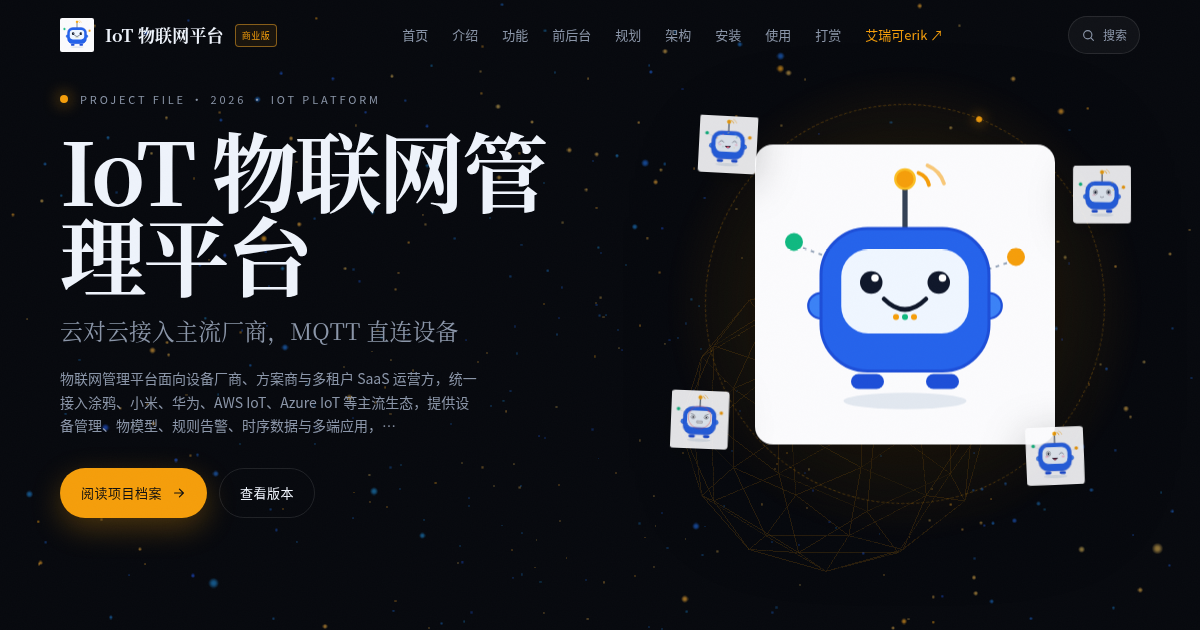
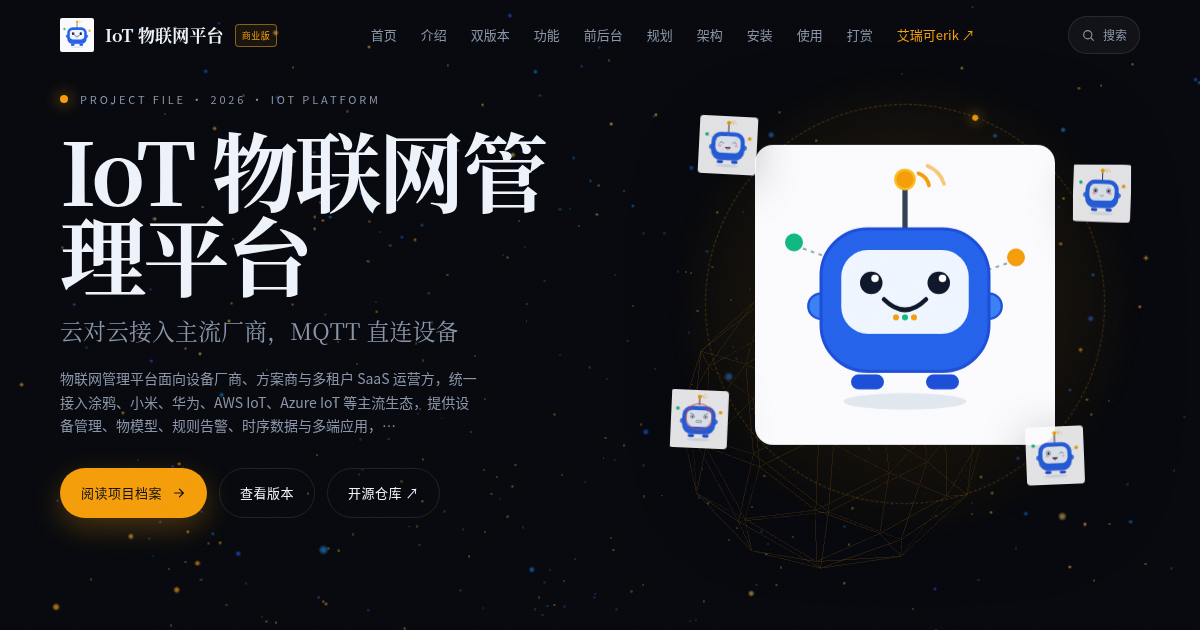
docs(site): 整合开源版/商业版并加入开源仓库

diff --git a/site/index.html b/site/index.html
@@ -27,18 +27,18 @@
 <meta name="twitter:title" content="IoT 物联网管理平台">
 <meta name="twitter:description" content="物联网管理平台面向设备厂商、方案商与多租户 SaaS 运营方，统一接入涂鸦、小米、华为、AWS IoT、Azure IoT 等主流生态，提供设备管理、物模型、规则告警、时序数据与多端应用，让不同厂商的设备在同一个平台纳管与运营。">
 <meta name="twitter:image" content="https://package.erik.xyz/iot-platform/assets/og.png">
-<script type="application/ld+json">{"@context": "https://schema.org", "@type": "SoftwareApplication", "name": "IoT 物联网管理平台", "description": "物联网管理平台面向设备厂商、方案商与多租户 SaaS 运营方，统一接入涂鸦、小米、华为、AWS IoT、Azure IoT 等主流生态，提供设备管理、物模型、规则告警、时序数据与多端应用，让不同厂商的设备在同一个平台纳管与运营。", "url": "https://package.erik.xyz/iot-platform/", "applicationCategory": "BusinessApplication", "operatingSystem": "Web", "inLanguage": "zh-CN", "author": {"@type": "Person", "name": "erik", "url": "https://erik.xyz"}}</script>
+<script type="application/ld+json">{"@context": "https://schema.org", "@type": "SoftwareApplication", "name": "IoT 物联网管理平台", "description": "物联网管理平台面向设备厂商、方案商与多租户 SaaS 运营方，统一接入涂鸦、小米、华为、AWS IoT、Azure IoT 等主流生态，提供设备管理、物模型、规则告警、时序数据与多端应用，让不同厂商的设备在同一个平台纳管与运营。", "url": "https://package.erik.xyz/iot-platform/", "applicationCategory": "BusinessApplication", "operatingSystem": "Web", "inLanguage": "zh-CN", "author": {"@type": "Person", "name": "erik", "url": "https://erik.xyz"}, "sameAs": ["https://github.com/erikwang2013/iot-platform"]}</script>
 <link rel="icon" href="assets/pet/mascot.svg" type="image/svg+xml">
 <link rel="preload" as="image" href="assets/pet/mascot.svg">
 <link rel="preload" as="image" href="assets/pet/expressions/smile.svg">
-<link rel="stylesheet" href="assets/style.css?v=5b0c637b">
+<link rel="stylesheet" href="assets/style.css?v=6aec3fcf">
 </head>
 <body>
 <canvas id="bg" aria-hidden="true"></canvas>
 <header class="site-header" id="header">
   <a class="brand" href="#hero" aria-label="回到首页"><img src="assets/pet/mascot.svg" alt=""><b>IoT 物联网平台</b><span class="brand-tag">商业版</span></a>
   <nav class="top-nav" aria-label="页面导航">
-    <a href="#hero">首页</a><a href="#intro">介绍</a><a href="#features">功能</a><a href="#sides">前后台</a><a href="#roadmap">规划</a><a href="#architecture">架构</a><a href="#install">安装</a><a href="#usage">使用</a><a href="#donate">打赏</a>
+    <a href="#hero">首页</a><a href="#intro">介绍</a><a href="#editions">双版本</a><a href="#features">功能</a><a href="#sides">前后台</a><a href="#roadmap">规划</a><a href="#architecture">架构</a><a href="#install">安装</a><a href="#usage">使用</a><a href="#donate">打赏</a>
     <a class="ext" href="https://erik.xyz" target="_blank" rel="noopener">艾瑞可erik ↗</a>
   </nav>
   <button class="search-btn" id="searchOpen" type="button" aria-label="站内搜索">
@@ -59,6 +59,7 @@
             <svg viewBox="0 0 16 16" fill="none" aria-hidden="true"><path d="M3 8h9M8.5 3.5 13 8l-4.5 4.5" stroke="currentColor" stroke-width="1.4" stroke-linecap="round" stroke-linejoin="round"/></svg>
           </a>
           <a class="btn" href="#timeline">查看版本</a>
+          <a class="btn" href="https://github.com/erikwang2013/iot-platform" target="_blank" rel="noopener">开源仓库 ↗</a>
         </div>
       </div>
       <div class="hero-pet" aria-hidden="true">
@@ -86,9 +87,31 @@
     </div>
   </section>
 
+  <section class="section" id="editions">
+    <div class="section-inner">
+      <div class="section-label">02 / 开源版与商业版</div>
+      <div class="section-head" data-reveal>
+        <h2>同一套代码基线，两种交付</h2>
+        <p>两版同源，商业版面向生产交付：开源版保留设备接入、物模型、规则告警、TDengine、多租户与 RBAC 等核心能力；商业版增加 iot-cdn、S3/MinIO、3 家云厂商与 HarmonyOS 四端，授权请联系 erik@erik.xyz。</p>
+      </div>
+      <div class="editions-grid" data-reveal>
+        <div class="edition-panel edition-open">
+          <div class="edition-head"><span>OPEN SOURCE</span><h3>开源版</h3></div>
+          <ul class="edition-list"><li>MQTT/mTLS 设备接入与设备生命周期</li><li>物模型、规则告警与场景自动化</li><li>TDengine 时序存储与 CSV/Excel 导出</li><li>多租户、RBAC 与 security-rust 扫描</li><li>Flutter 管理端/客户端与 13 语言</li></ul>
+        </div>
+        <div class="edition-panel edition-commercial">
+          <div class="edition-head"><span>COMMERCIAL</span><h3>商业版</h3></div>
+          <ul class="edition-list"><li>华为/AWS/Azure 云厂商适配器</li><li>iot-cdn：刷新/预热、签名 URL 与报表</li><li>HarmonyOS 管理端与客户端四端</li><li>S3/MinIO 对象存储编排</li><li>完整 e-cat 框架与 18 个额外 crate</li><li>i18n 演示页与 CDN 管理页</li></ul>
+        </div>
+      </div>
+      <div class="edition-table-wrap" data-reveal><table class="edition-table"><thead><tr><th>维度</th><th>开源版</th><th>商业版</th></tr></thead><tbody><tr><td>业务服务</td><td>5 个：gateway / device / access / rule / data-service</td><td>6 个：增加 iot-cdn</td></tr><tr><td>设备厂商</td><td>涂鸦、小米</td><td>涂鸦、小米、华为、AWS IoT、Azure IoT</td></tr><tr><td>客户端</td><td>Flutter 管理端 + Flutter 客户端</td><td>Flutter + HarmonyOS 原生四端（15 个 ArkTS 文件）</td></tr><tr><td>数据与检索</td><td>18 张表；TDengine 时序、Redis、Kafka/MQTT、本地 OTA 文件</td><td>20 张表（+cdn_providers/cdn_tasks）；额外 S3/MinIO、CDN 缓存及多种可选数据后端</td></tr><tr><td>e-cat 框架</td><td>45 个 crate</td><td>63 个 crate（额外 18 个：9 类数据后端、NATS/RabbitMQ、etcd、GraphQL、WebSocket、CDN、Edge、Bench）</td></tr><tr><td>测试与质量</td><td>106 个测试文件 / 720 个 #[test]；ci.yml + release.yml</td><td>133 个测试文件 / 914 个 #[test]；沿用同一 CI/Release 流程</td></tr><tr><td>部署与运维</td><td>Docker Compose 20 个服务、install.sh、6 个 k8s 清单 + HPA、6 个 Prometheus job</td><td>23 个服务（含 iot-cdn/MinIO 等）、同套 k8s/HPA、7 个 Prometheus job</td></tr><tr><td>授权与商业支持</td><td>仅个人学习/研究；商业使用需书面授权；无 SLA</td><td>商业授权、交付与支持；联系 erik@erik.xyz</td></tr></tbody></table></div>
+      <a class="edition-repo" href="https://github.com/erikwang2013/iot-platform" target="_blank" rel="noopener">开源版 GitHub 仓库 ↗</a>
+    </div>
+  </section>
+
   <section class="section" id="features">
     <div class="section-inner">
-      <div class="section-label">02 / 功能迭代</div>
+      <div class="section-label">03 / 功能迭代</div>
       <div class="section-head" data-reveal>
         <h2>功能，长在真实场景里</h2>
         <p>以下为当前版本的核心能力切片；完整演进记录见版本日志。</p>
@@ -101,7 +124,7 @@
 
   <section class="section" id="sides">
     <div class="section-inner">
-      <div class="section-label">03 / 前后台功能</div>
+      <div class="section-label">04 / 前后台功能</div>
       <div class="section-head" data-reveal>
         <h2>一套系统，两种视角</h2>
         <p>管理后台负责经营与治理，客户端负责用户体验；两边共用同一套业务与权限边界。</p>
@@ -112,7 +135,7 @@
 
   <section class="section" id="roadmap">
     <div class="section-inner">
-      <div class="section-label">04 / 项目规划</div>
+      <div class="section-label">05 / 项目规划</div>
       <div class="section-head" data-reveal>
         <h2>从当前版本，走向下一站</h2>
         <p>已交付、进行中与下一步，按真实里程碑排列。</p>
@@ -123,7 +146,7 @@
 
   <section class="section" id="architecture">
     <div class="section-inner">
-      <div class="section-label">05 / 架构设计</div>
+      <div class="section-label">06 / 架构设计</div>
       <div class="section-head" data-reveal>
         <h2>结构，决定能走多远</h2>
         <p>设备经云对云 OAuth 或 MQTT mTLS 接入 iot-access 并绑定物模型；数据经 Kafka 写入 TDengine，iot-rule 判断阈值后由 WebSocket 推送。iot-gateway 统一对外 API，MySQL、Redis、MinIO 承载元数据、缓存与对象存储。</p>
@@ -144,7 +167,7 @@
 
   <section class="section" id="security">
     <div class="section-inner">
-      <div class="section-label">06 / 安全与可靠性</div>
+      <div class="section-label">07 / 安全与可靠性</div>
       <div class="section-head" data-reveal>
         <h2>安全，不是最后补的</h2>
         <p>从边界、身份、数据到故障，每一层都按“默认不信任”设计。</p>
@@ -156,7 +179,7 @@
 
   <section class="section" id="design">
     <div class="section-inner">
-      <div class="section-label">07 / 设计思路</div>
+      <div class="section-label">08 / 设计思路</div>
       <div class="section-head" data-reveal>
         <h2>取舍，写在代码之前</h2>
         <p>从业务边界到代码边界，以下是这个项目反复坚持的设计原则。</p>
@@ -167,7 +190,7 @@
 
   <section class="section" id="pet">
     <div class="section-inner">
-      <div class="section-label">08 / 项目宠物</div>
+      <div class="section-label">09 / 项目宠物</div>
       <div class="pet-grid-wrap">
         <div class="pet-preview" id="petPreview" data-reveal>
           <img id="petPreviewImg" src="assets/pet/expressions/smile.svg" alt="IoT Bot 表情" width="280" height="280">
@@ -184,19 +207,19 @@
 
   <section class="section" id="install">
     <div class="section-inner">
-      <div class="section-label">09 / 安装部署</div>
+      <div class="section-label">10 / 安装部署</div>
       <div class="section-head" data-reveal>
         <h2>把它跑起来</h2>
         <p>按 README 的主路径整理，先把最小可用环境跑通。</p>
       </div>
       <div class="install-req" data-reveal><span>Docker 24+</span><span>docker compose</span><span>Rust 1.80+</span><span>8080-8085 端口空闲</span><span>3306/6379/1883/9092/6041 端口空闲</span></div>
-      <div class="install-steps" data-reveal><div class="install-step"><span class="step-num">01</span><div><b>获取代码</b><p>克隆仓库并进入项目目录。</p><pre><code>git clone &lt;repo&gt; &amp;&amp; cd iot-platform</code></pre></div></div><div class="install-step"><span class="step-num">02</span><div><b>一键安装</b><p>启动基础设施、构建 6 个业务服务并生成 .env。</p><pre><code>./scripts/install.sh</code></pre></div></div><div class="install-step"><span class="step-num">03</span><div><b>检查基础设施</b><p>确认 MySQL、Redis、EMQX、Kafka、MinIO 与 TDengine 已就绪。</p><pre><code>docker compose ps</code></pre></div></div><div class="install-step"><span class="step-num">04</span><div><b>启动业务服务</b><p>按脚本末尾输出的命令逐个启动 6 个业务服务。</p></div></div><div class="install-step"><span class="step-num">05</span><div><b>登录管理端</b><p>使用 README 中的默认管理员账号登录管理端。</p></div></div></div>
+      <div class="install-steps" data-reveal><div class="install-step"><span class="step-num">01</span><div><b>获取代码</b><p>克隆仓库并进入项目目录。</p><pre><code>git clone https://github.com/erikwang2013/iot-platform.git &amp;&amp; cd iot-platform</code></pre></div></div><div class="install-step"><span class="step-num">02</span><div><b>一键安装</b><p>启动基础设施、构建 6 个业务服务并生成 .env。</p><pre><code>./scripts/install.sh</code></pre></div></div><div class="install-step"><span class="step-num">03</span><div><b>检查基础设施</b><p>确认 MySQL、Redis、EMQX、Kafka、MinIO 与 TDengine 已就绪。</p><pre><code>docker compose ps</code></pre></div></div><div class="install-step"><span class="step-num">04</span><div><b>启动业务服务</b><p>按脚本末尾输出的命令逐个启动 6 个业务服务。</p></div></div><div class="install-step"><span class="step-num">05</span><div><b>登录管理端</b><p>使用 README 中的默认管理员账号登录管理端。</p></div></div></div>
     </div>
   </section>
 
   <section class="section" id="usage">
     <div class="section-inner">
-      <div class="section-label">10 / 使用教程</div>
+      <div class="section-label">11 / 使用教程</div>
       <div class="section-head" data-reveal>
         <h2>从第一次登录，到完整跑通</h2>
         <p>按最小操作路径整理，覆盖后台配置、客户端使用与关键接口。</p>
@@ -207,7 +230,7 @@
 
   <section class="section" id="donate">
     <div class="section-inner">
-      <div class="section-label">11 / 打赏支持</div>
+      <div class="section-label">12 / 打赏支持</div>
       <div class="section-head" data-reveal>
         <h2>如果这个项目帮到了你</h2>
         <p>微信或支付宝扫码支持，点击二维码可放大查看。</p>
@@ -219,7 +242,7 @@
 
   <section class="section" id="timeline">
     <div class="section-inner">
-      <div class="section-label">12 / 版本日志</div>
+      <div class="section-label">13 / 版本日志</div>
       <div class="section-head" data-reveal>
         <h2>每一次迭代，都有迹可循</h2>
         <p>当前最新 v1.16.1，公开版本持续更新。</p>
@@ -234,6 +257,7 @@
       <a class="author" href="https://erik.xyz" target="_blank" rel="noopener">艾瑞可<em>erik</em></a>
       <div class="footer-meta">
         <a href="https://erik.xyz" target="_blank" rel="noopener">erik.xyz</a>
+        <a href="https://github.com/erikwang2013/iot-platform" target="_blank" rel="noopener">开源仓库</a>
         <span>IoT 物联网平台 · v1.16.1</span>
       </div>
       <div class="footer-info" id="busuanzi"><script async src="//busuanzi.ibruce.info/busuanzi/2.3/busuanzi.pure.mini.js"></script> <span id="busuanzi_container_page_pv"><span data-i18n="post.readA">阅读</span> <b id="busuanzi_value_page_pv">0</b> <span data-i18n="post.readB">次 👀</span></span></div>
@@ -252,7 +276,7 @@
     <p class="search-empty" id="searchEmpty">输入关键词搜索功能、模块、版本、安装与使用教程。</p>
   </div>
 </div>
-<script type="application/json" id="searchIndex">[{"id": "intro", "section": "项目介绍", "title": "IoT 物联网管理平台", "text": "物联网管理平台面向设备厂商、方案商与多租户 SaaS 运营方，统一接入涂鸦、小米、华为、AWS IoT、Azure IoT 等主流生态，提供设备管理、物模型、规则告警、时序数据与多端应用，让不同厂商的设备在同一个平台纳管与运营。 后端采用 Rust e-cat 微服务工作区，按网关、设备、接入、数据、规则、CDN 拆分为 6 个服务；EMQX 承载 MQTT、Kafka 事件总线，MySQL 与 TDengine 分别存储元数据和时序数据，Flutter Web/Mobile"}, {"id": "intro", "section": "项目介绍", "title": "适用场景与技术栈", "text": "设备厂商 物联网方案商 多租户 SaaS 运营商 硬件开发者 Rust axum tokio gRPC Flutter HarmonyOS ArkTS EMQX Kafka MySQL 8 TDengine"}, {"id": "features", "section": "功能迭代", "title": "多厂商接入", "text": "涂鸦、小米、华为、AWS、Azure 云对云 OAuth 与 MQTT mTLS 直连。"}, {"id": "features", "section": "功能迭代", "title": "物模型建模", "text": "属性、事件、服务统一定义，客户端控制面板按模型动态渲染。"}, {"id": "features", "section": "功能迭代", "title": "设备生命周期", "text": "注册、启用、禁用、解绑、删除全流程，实时同步在线状态。"}, {"id": "features", "section": "功能迭代", "title": "规则与告警", "text": "阈值规则与场景自动化，触发后经 WebSocket 实时推送。"}, {"id": "features", "section": "功能迭代", "title": "时序数据报表", "text": "TDengine 存储历史曲线，支持 CSV / Excel 导出与多维报表。"}, {"id": "features", "section": "功能迭代", "title": "CDN 管理", "text": "多厂商配置、启停、刷新预热与签名 URL 下发。"}, {"id": "features", "section": "功能迭代", "title": "多租户 SaaS", "text": "租户隔离、配额与 admin / operator / read-only 角色权限。"}, {"id": "features", "section": "功能迭代", "title": "安全防护", "text": "JWT + RBAC、双向 TLS、凭据 AES 加密、限流与熔断。"}, {"id": "features", "section": "功能迭代", "title": "功能图", "text": "README 图示"}, {"id": "sides", "section": "前后台功能", "title": "管理端 · 设备管理", "text": "设备注册、分组、在线状态与生命周期操作。"}, {"id": "sides", "section": "前后台功能", "title": "管理端 · 物模型", "text": "品类属性、事件与服务建模。"}, {"id": "sides", "section": "前后台功能", "title": "管理端 · 厂商接入", "text": "涂鸦、小米、华为、AWS、Azure OAuth 接入。"}, {"id": "sides", "section": "前后台功能", "title": "管理端 · 规则告警", "text": "阈值规则、场景自动化与告警记录。"}, {"id": "sides", "section": "前后台功能", "title": "管理端 · 数据报表", "text": "历史曲线、多维报表与 CSV/Excel 导出。"}, {"id": "sides", "section": "前后台功能", "title": "管理端 · CDN 管理", "text": "厂商配置、刷新、预热与签名 URL。"}, {"id": "sides", "section": "前后台功能", "title": "管理端 · 租户权限", "text": "租户、配额与 admin/operator/read-only 角色。"}, {"id": "sides", "section": "前后台功能", "title": "管理端 · API 密钥", "text": "管理开放 API 密钥与访问范围。"}, {"id": "sides", "section": "前后台功能", "title": "客户端 · 设备控制", "text": "按物模型动态渲染面板并下发指令。"}, {"id": "sides", "section": "前后台功能", "title": "客户端 · 实时状态", "text": "查看设备在线状态与属性变化。"}, {"id": "sides", "section": "前后台功能", "title": "客户端 · 告警通知", "text": "通过 WebSocket 接收规则触发通知。"}, {"id": "sides", "section": "前后台功能", "title": "客户端 · 历史数据", "text": "查看设备历史曲线与用量趋势。"}, {"id": "sides", "section": "前后台功能", "title": "客户端 · 场景联动", "text": "执行手动场景与自动化任务。"}, {"id": "sides", "section": "前后台功能", "title": "客户端 · 多端访问", "text": "Flutter Web/Mobile 与 HarmonyOS 客户端。"}, {"id": "sides", "section": "前后台功能", "title": "客户端 · 多语言", "text": "13 语言界面切换。"}, {"id": "roadmap", "section": "项目规划", "title": "P0 · 骨架", "text": "仓库结构、网关、设备服务与 Docker 编排。 已完成"}, {"id": "roadmap", "section": "项目规划", "title": "P1 · 设备接入", "text": "iot-access、涂鸦适配器与 MQTT 直连接入。 已完成"}, {"id": "roadmap", "section": "项目规划", "title": "P2 · 时序数据", "text": "iot-data、TDengine 历史曲线与统计。 已完成"}, {"id": "roadmap", "section": "项目规划", "title": "P3 · 规则告警", "text": "iot-rule 阈值告警与场景自动化。 已完成"}, {"id": "roadmap", "section": "项目规划", "title": "P4 · 多厂商与 CDN", "text": "小米、华为、AWS、Azure 适配器与 iot-cdn。 已完成"}, {"id": "roadmap", "section": "项目规划", "title": "P5 · 多端前端", "text": "管理端与客户端 Flutter、HarmonyOS 全端。 已完成"}, {"id": "roadmap", "section": "项目规划", "title": "P6 · 上线收尾", "text": "安全加固、压测、OTA 与生产发布。 进行中"}, {"id": "architecture", "section": "架构设计", "title": "架构总览", "text": "设备经云对云 OAuth 或 MQTT mTLS 接入 iot-access 并绑定物模型；数据经 Kafka 写入 TDengine，iot-rule 判断阈值后由 WebSocket 推送。iot-gateway 统一对外 API，MySQL、Redis、MinIO 承载元数据、缓存与对象存储。"}, {"id": "architecture", "section": "架构设计", "title": "设备接入", "text": "云对云 OAuth · MQTT mTLS · EMQX 多厂商云对云适配与设备直连认证。"}, {"id": "architecture", "section": "架构设计", "title": "服务网关", "text": "Rust axum · gRPC · JWT 统一 API、鉴权、限流与内部 RPC。"}, {"id": "architecture", "section": "架构设计", "title": "业务服务", "text": "iot-device · iot-rule · iot-data 设备、接入、规则、数据与 CDN 五域拆分。"}, {"id": "architecture", "section": "架构设计", "title": "事件与存储", "text": "Kafka · MySQL · TDengine · Redis · MinIO 事件总线、元数据、时序、影子与对象存储。"}, {"id": "architecture", "section": "架构设计", "title": "客户端", "text": "Flutter Web/Mobile · HarmonyOS ArkTS 管理端与客户端共四端，支持 13 语言界面。"}, {"id": "architecture", "section": "架构设计", "title": "设备台账", "text": "设备注册、分组、在线状态与详情集中管理。"}, {"id": "architecture", "section": "架构设计", "title": "厂商适配器", "text": "涂鸦、小米、华为、AWS、Azure OAuth 适配与凭据托管。"}, {"id": "architecture", "section": "架构设计", "title": "物模型", "text": "属性、事件、服务定义，供客户端动态渲染控制面板。"}, {"id": "architecture", "section": "架构设计", "title": "生命周期", "text": "注册、启用、禁用、解绑、删除状态流转。"}, {"id": "architecture", "section": "架构设计", "title": "规则引擎", "text": "阈值判断、场景联动与规则启停管理。"}, {"id": "architecture", "section": "架构设计", "title": "告警中心", "text": "告警触发、实时推送与处理记录。"}, {"id": "architecture", "section": "架构设计", "title": "历史数据", "text": "TDengine 时序查询、历史曲线与 CSV / Excel 导出。"}, {"id": "architecture", "section": "架构设计", "title": "报表统计", "text": "设备、数据、CDN、告警与租户多维报表。"}, {"id": "architecture", "section": "架构设计", "title": "CDN 配置", "text": "多厂商 CDN 启用、刷新、预热与签名 URL。"}, {"id": "architecture", "section": "架构设计", "title": "租户管理", "text": "租户隔离、配额与角色权限配置。"}, {"id": "architecture", "section": "架构设计", "title": "多端应用", "text": "Flutter Web/Mobile 与 HarmonyOS 管理端、客户端。"}, {"id": "architecture", "section": "架构设计", "title": "多语言", "text": "13 语言 i18n 资源与界面切换。"}, {"id": "architecture", "section": "架构设计", "title": "技术栈", "text": "后端 Rust axum tokio gRPC 数据 MySQL 8 TDengine Redis S3 / MinIO 客户端 Flutter Web Flutter Mobile HarmonyOS ArkTS 基础设施 EMQX Kafka Docker Compose"}, {"id": "security", "section": "安全与可靠性", "title": "入站扫描", "text": "security-rust 对入站请求做攻击与载荷检测。"}, {"id": "security", "section": "安全与可靠性", "title": "认证授权", "text": "JWT + RBAC，admin / operator / read-only 分级。"}, {"id": "security", "section": "安全与可靠性", "title": "双向 TLS", "text": "MQTT mTLS 校验设备证书，拒绝未授权终端。"}, {"id": "security", "section": "安全与可靠性", "title": "凭据加密", "text": "厂商凭据 AES 加密存储，最小化明文暴露。"}, {"id": "security", "section": "安全与可靠性", "title": "租户隔离", "text": "租户级数据隔离与配额限制，防止越权访问。"}, {"id": "security", "section": "安全与可靠性", "title": "流量防护", "text": "网关限流与熔断，隔离异常租户与故障依赖。"}, {"id": "design", "section": "设计思路", "title": "领域拆分", "text": "按网关、设备、接入、数据、规则、CDN 拆服务，设备量增长时独立扩容。"}, {"id": "design", "section": "设计思路", "title": "冷热分存", "text": "元数据进 MySQL，时序进 TDengine，Redis 只做影子缓存，避免互相拖慢。"}, {"id": "design", "section": "设计思路", "title": "统一物模型", "text": "各厂商差异收敛在适配器，客户端只面对属性、事件、服务。"}, {"id": "design", "section": "设计思路", "title": "事件解耦", "text": "Kafka 连接上报与规则计算，削峰并允许规则独立消费重放。"}, {"id": "pet", "section": "项目宠物", "title": "IoT Bot", "text": "蓝身机器人，头顶信号天线、胸前状态灯，呼应设备接入与实时在线的物联世界。"}, {"id": "pet", "section": "项目宠物", "title": "宠物表情", "text": "笑 欢乐 哭 沮丧 惊恐 愤怒 撒娇 卖萌 讨好 敲打 捂脸 吐舌头"}, {"id": "install", "section": "安装部署", "title": "环境要求", "text": "Docker 24+ docker compose Rust 1.80+ 8080-8085 端口空闲 3306/6379/1883/9092/6041 端口空闲"}, {"id": "install", "section": "安装部署", "title": "获取代码", "text": "克隆仓库并进入项目目录。 git clone <repo> && cd iot-platform"}, {"id": "install", "section": "安装部署", "title": "一键安装", "text": "启动基础设施、构建 6 个业务服务并生成 .env。 ./scripts/install.sh"}, {"id": "install", "section": "安装部署", "title": "检查基础设施", "text": "确认 MySQL、Redis、EMQX、Kafka、MinIO 与 TDengine 已就绪。 docker compose ps"}, {"id": "install", "section": "安装部署", "title": "启动业务服务", "text": "按脚本末尾输出的命令逐个启动 6 个业务服务。"}, {"id": "install", "section": "安装部署", "title": "登录管理端", "text": "使用 README 中的默认管理员账号登录管理端。"}, {"id": "usage", "section": "使用教程", "title": "登录管理端", "text": "使用默认管理员账号登录，进入租户 tenant-1。"}, {"id": "usage", "section": "使用教程", "title": "添加设备", "text": "选择厂商 OAuth 接入或 MQTT 直连并填写设备信息。"}, {"id": "usage", "section": "使用教程", "title": "定义物模型", "text": "为设备品类添加属性、事件与服务。"}, {"id": "usage", "section": "使用教程", "title": "配置规则", "text": "设置阈值规则与场景自动化并启用推送。"}, {"id": "usage", "section": "使用教程", "title": "查看数据", "text": "在历史数据页查看曲线并导出 CSV / Excel。"}, {"id": "usage", "section": "使用教程", "title": "管理 CDN", "text": "配置 CDN 厂商，执行刷新、预热与签名 URL。"}, {"id": "donate", "section": "打赏支持", "title": "微信赞赏 / 支付宝赞赏", "text": "微信 支付宝 打赏 赞助 支持 erik"}, {"id": "timeline", "section": "版本日志", "title": "v1.16.1", "text": "授权改为仅限个人使用；更新 README 与多语言文档。"}, {"id": "timeline", "section": "版本日志", "title": "v1.16.0", "text": "版本发布"}, {"id": "timeline", "section": "版本日志", "title": "v1.15.0", "text": "版本发布"}, {"id": "timeline", "section": "版本日志", "title": "v1.14.0", "text": "版本发布"}, {"id": "timeline", "section": "版本日志", "title": "v1.13.0", "text": "版本发布"}, {"id": "timeline", "section": "版本日志", "title": "v1.12.0", "text": "版本发布"}, {"id": "timeline", "section": "版本日志", "title": "v1.11.0", "text": "版本发布"}, {"id": "timeline", "section": "版本日志", "title": "v1.10.0", "text": "版本发布"}, {"id": "timeline", "section": "版本日志", "title": "v1.9.0", "text": "版本发布"}, {"id": "timeline", "section": "版本日志", "title": "v1.8.0", "text": "版本发布"}, {"id": "timeline", "section": "版本日志", "title": "v1.7.0", "text": "版本发布"}, {"id": "timeline", "section": "版本日志", "title": "v1.6.0", "text": "版本发布"}, {"id": "timeline", "section": "版本日志", "title": "v1.5.0", "text": "IoT 平台 v1.5.0"}, {"id": "timeline", "section": "版本日志", "title": "v1.4.0", "text": "IoT 平台 v1.4.0"}, {"id": "timeline", "section": "版本日志", "title": "v1.3.0", "text": "IoT 平台 v1.3.0"}, {"id": "timeline", "section": "版本日志", "title": "v1.2.0", "text": "IoT 平台 v1.2.0"}, {"id": "timeline", "section": "版本日志", "title": "v1.1.0", "text": "IoT 平台 v1.1.0 — P1 接入进行中：iot-access 服务 + OAuth 授权码 + 凭据加密（Task 1-4 完成）"}, {"id": "timeline", "section": "版本日志", "title": "v1.0.0", "text": "IoT 物联网管理平台 v1.0.0 — 项目首个版本（13 语言 i18n + 吉祥物 + P0-P1 骨架）"}]</script>
+<script type="application/json" id="searchIndex">[{"id": "intro", "section": "项目介绍", "title": "IoT 物联网管理平台", "text": "物联网管理平台面向设备厂商、方案商与多租户 SaaS 运营方，统一接入涂鸦、小米、华为、AWS IoT、Azure IoT 等主流生态，提供设备管理、物模型、规则告警、时序数据与多端应用，让不同厂商的设备在同一个平台纳管与运营。 后端采用 Rust e-cat 微服务工作区，按网关、设备、接入、数据、规则、CDN 拆分为 6 个服务；EMQX 承载 MQTT、Kafka 事件总线，MySQL 与 TDengine 分别存储元数据和时序数据，Flutter Web/Mobile"}, {"id": "intro", "section": "项目介绍", "title": "适用场景与技术栈", "text": "设备厂商 物联网方案商 多租户 SaaS 运营商 硬件开发者 Rust axum tokio gRPC Flutter HarmonyOS ArkTS EMQX Kafka MySQL 8 TDengine"}, {"id": "editions", "section": "开源版与商业版", "title": "开源版与商业版", "text": "两版同源，商业版面向生产交付：开源版保留设备接入、物模型、规则告警、TDengine、多租户与 RBAC 等核心能力；商业版增加 iot-cdn、S3/MinIO、3 家云厂商与 HarmonyOS 四端，授权请联系 erik@erik.xyz。 https://github.com/erikwang2013/iot-platform"}, {"id": "editions", "section": "开源版与商业版", "title": "业务服务", "text": "开源版：5 个：gateway / device / access / rule / data-service 商业版：6 个：增加 iot-cdn"}, {"id": "editions", "section": "开源版与商业版", "title": "设备厂商", "text": "开源版：涂鸦、小米 商业版：涂鸦、小米、华为、AWS IoT、Azure IoT"}, {"id": "editions", "section": "开源版与商业版", "title": "客户端", "text": "开源版：Flutter 管理端 + Flutter 客户端 商业版：Flutter + HarmonyOS 原生四端（15 个 ArkTS 文件）"}, {"id": "editions", "section": "开源版与商业版", "title": "数据与检索", "text": "开源版：18 张表；TDengine 时序、Redis、Kafka/MQTT、本地 OTA 文件 商业版：20 张表（+cdn_providers/cdn_tasks）；额外 S3/MinIO、CDN 缓存及多种可选数据后端"}, {"id": "editions", "section": "开源版与商业版", "title": "e-cat 框架", "text": "开源版：45 个 crate 商业版：63 个 crate（额外 18 个：9 类数据后端、NATS/RabbitMQ、etcd、GraphQL、WebSocket、CDN、Edge、Bench）"}, {"id": "editions", "section": "开源版与商业版", "title": "测试与质量", "text": "开源版：106 个测试文件 / 720 个 #[test]；ci.yml + release.yml 商业版：133 个测试文件 / 914 个 #[test]；沿用同一 CI/Release 流程"}, {"id": "editions", "section": "开源版与商业版", "title": "部署与运维", "text": "开源版：Docker Compose 20 个服务、install.sh、6 个 k8s 清单 + HPA、6 个 Prometheus job 商业版：23 个服务（含 iot-cdn/MinIO 等）、同套 k8s/HPA、7 个 Prometheus job"}, {"id": "editions", "section": "开源版与商业版", "title": "授权与商业支持", "text": "开源版：仅个人学习/研究；商业使用需书面授权；无 SLA 商业版：商业授权、交付与支持；联系 erik@erik.xyz"}, {"id": "editions", "section": "开源版与商业版", "title": "开源版保留能力", "text": "MQTT/mTLS 设备接入与设备生命周期 物模型、规则告警与场景自动化 TDengine 时序存储与 CSV/Excel 导出 多租户、RBAC 与 security-rust 扫描 Flutter 管理端/客户端与 13 语言"}, {"id": "editions", "section": "开源版与商业版", "title": "商业版额外能力", "text": "华为/AWS/Azure 云厂商适配器 iot-cdn：刷新/预热、签名 URL 与报表 HarmonyOS 管理端与客户端四端 S3/MinIO 对象存储编排 完整 e-cat 框架与 18 个额外 crate i18n 演示页与 CDN 管理页"}, {"id": "features", "section": "功能迭代", "title": "多厂商接入", "text": "涂鸦、小米、华为、AWS、Azure 云对云 OAuth 与 MQTT mTLS 直连。"}, {"id": "features", "section": "功能迭代", "title": "物模型建模", "text": "属性、事件、服务统一定义，客户端控制面板按模型动态渲染。"}, {"id": "features", "section": "功能迭代", "title": "设备生命周期", "text": "注册、启用、禁用、解绑、删除全流程，实时同步在线状态。"}, {"id": "features", "section": "功能迭代", "title": "规则与告警", "text": "阈值规则与场景自动化，触发后经 WebSocket 实时推送。"}, {"id": "features", "section": "功能迭代", "title": "时序数据报表", "text": "TDengine 存储历史曲线，支持 CSV / Excel 导出与多维报表。"}, {"id": "features", "section": "功能迭代", "title": "CDN 管理", "text": "多厂商配置、启停、刷新预热与签名 URL 下发。"}, {"id": "features", "section": "功能迭代", "title": "多租户 SaaS", "text": "租户隔离、配额与 admin / operator / read-only 角色权限。"}, {"id": "features", "section": "功能迭代", "title": "安全防护", "text": "JWT + RBAC、双向 TLS、凭据 AES 加密、限流与熔断。"}, {"id": "features", "section": "功能迭代", "title": "功能图", "text": "README 图示"}, {"id": "sides", "section": "前后台功能", "title": "管理端 · 设备管理", "text": "设备注册、分组、在线状态与生命周期操作。"}, {"id": "sides", "section": "前后台功能", "title": "管理端 · 物模型", "text": "品类属性、事件与服务建模。"}, {"id": "sides", "section": "前后台功能", "title": "管理端 · 厂商接入", "text": "涂鸦、小米、华为、AWS、Azure OAuth 接入。"}, {"id": "sides", "section": "前后台功能", "title": "管理端 · 规则告警", "text": "阈值规则、场景自动化与告警记录。"}, {"id": "sides", "section": "前后台功能", "title": "管理端 · 数据报表", "text": "历史曲线、多维报表与 CSV/Excel 导出。"}, {"id": "sides", "section": "前后台功能", "title": "管理端 · CDN 管理", "text": "厂商配置、刷新、预热与签名 URL。"}, {"id": "sides", "section": "前后台功能", "title": "管理端 · 租户权限", "text": "租户、配额与 admin/operator/read-only 角色。"}, {"id": "sides", "section": "前后台功能", "title": "管理端 · API 密钥", "text": "管理开放 API 密钥与访问范围。"}, {"id": "sides", "section": "前后台功能", "title": "客户端 · 设备控制", "text": "按物模型动态渲染面板并下发指令。"}, {"id": "sides", "section": "前后台功能", "title": "客户端 · 实时状态", "text": "查看设备在线状态与属性变化。"}, {"id": "sides", "section": "前后台功能", "title": "客户端 · 告警通知", "text": "通过 WebSocket 接收规则触发通知。"}, {"id": "sides", "section": "前后台功能", "title": "客户端 · 历史数据", "text": "查看设备历史曲线与用量趋势。"}, {"id": "sides", "section": "前后台功能", "title": "客户端 · 场景联动", "text": "执行手动场景与自动化任务。"}, {"id": "sides", "section": "前后台功能", "title": "客户端 · 多端访问", "text": "Flutter Web/Mobile 与 HarmonyOS 客户端。"}, {"id": "sides", "section": "前后台功能", "title": "客户端 · 多语言", "text": "13 语言界面切换。"}, {"id": "roadmap", "section": "项目规划", "title": "P0 · 骨架", "text": "仓库结构、网关、设备服务与 Docker 编排。 已完成"}, {"id": "roadmap", "section": "项目规划", "title": "P1 · 设备接入", "text": "iot-access、涂鸦适配器与 MQTT 直连接入。 已完成"}, {"id": "roadmap", "section": "项目规划", "title": "P2 · 时序数据", "text": "iot-data、TDengine 历史曲线与统计。 已完成"}, {"id": "roadmap", "section": "项目规划", "title": "P3 · 规则告警", "text": "iot-rule 阈值告警与场景自动化。 已完成"}, {"id": "roadmap", "section": "项目规划", "title": "P4 · 多厂商与 CDN", "text": "小米、华为、AWS、Azure 适配器与 iot-cdn。 已完成"}, {"id": "roadmap", "section": "项目规划", "title": "P5 · 多端前端", "text": "管理端与客户端 Flutter、HarmonyOS 全端。 已完成"}, {"id": "roadmap", "section": "项目规划", "title": "P6 · 上线收尾", "text": "安全加固、压测、OTA 与生产发布。 进行中"}, {"id": "architecture", "section": "架构设计", "title": "架构总览", "text": "设备经云对云 OAuth 或 MQTT mTLS 接入 iot-access 并绑定物模型；数据经 Kafka 写入 TDengine，iot-rule 判断阈值后由 WebSocket 推送。iot-gateway 统一对外 API，MySQL、Redis、MinIO 承载元数据、缓存与对象存储。"}, {"id": "architecture", "section": "架构设计", "title": "设备接入", "text": "云对云 OAuth · MQTT mTLS · EMQX 多厂商云对云适配与设备直连认证。"}, {"id": "architecture", "section": "架构设计", "title": "服务网关", "text": "Rust axum · gRPC · JWT 统一 API、鉴权、限流与内部 RPC。"}, {"id": "architecture", "section": "架构设计", "title": "业务服务", "text": "iot-device · iot-rule · iot-data 设备、接入、规则、数据与 CDN 五域拆分。"}, {"id": "architecture", "section": "架构设计", "title": "事件与存储", "text": "Kafka · MySQL · TDengine · Redis · MinIO 事件总线、元数据、时序、影子与对象存储。"}, {"id": "architecture", "section": "架构设计", "title": "客户端", "text": "Flutter Web/Mobile · HarmonyOS ArkTS 管理端与客户端共四端，支持 13 语言界面。"}, {"id": "architecture", "section": "架构设计", "title": "设备台账", "text": "设备注册、分组、在线状态与详情集中管理。"}, {"id": "architecture", "section": "架构设计", "title": "厂商适配器", "text": "涂鸦、小米、华为、AWS、Azure OAuth 适配与凭据托管。"}, {"id": "architecture", "section": "架构设计", "title": "物模型", "text": "属性、事件、服务定义，供客户端动态渲染控制面板。"}, {"id": "architecture", "section": "架构设计", "title": "生命周期", "text": "注册、启用、禁用、解绑、删除状态流转。"}, {"id": "architecture", "section": "架构设计", "title": "规则引擎", "text": "阈值判断、场景联动与规则启停管理。"}, {"id": "architecture", "section": "架构设计", "title": "告警中心", "text": "告警触发、实时推送与处理记录。"}, {"id": "architecture", "section": "架构设计", "title": "历史数据", "text": "TDengine 时序查询、历史曲线与 CSV / Excel 导出。"}, {"id": "architecture", "section": "架构设计", "title": "报表统计", "text": "设备、数据、CDN、告警与租户多维报表。"}, {"id": "architecture", "section": "架构设计", "title": "CDN 配置", "text": "多厂商 CDN 启用、刷新、预热与签名 URL。"}, {"id": "architecture", "section": "架构设计", "title": "租户管理", "text": "租户隔离、配额与角色权限配置。"}, {"id": "architecture", "section": "架构设计", "title": "多端应用", "text": "Flutter Web/Mobile 与 HarmonyOS 管理端、客户端。"}, {"id": "architecture", "section": "架构设计", "title": "多语言", "text": "13 语言 i18n 资源与界面切换。"}, {"id": "architecture", "section": "架构设计", "title": "技术栈", "text": "后端 Rust axum tokio gRPC 数据 MySQL 8 TDengine Redis S3 / MinIO 客户端 Flutter Web Flutter Mobile HarmonyOS ArkTS 基础设施 EMQX Kafka Docker Compose"}, {"id": "security", "section": "安全与可靠性", "title": "入站扫描", "text": "security-rust 对入站请求做攻击与载荷检测。"}, {"id": "security", "section": "安全与可靠性", "title": "认证授权", "text": "JWT + RBAC，admin / operator / read-only 分级。"}, {"id": "security", "section": "安全与可靠性", "title": "双向 TLS", "text": "MQTT mTLS 校验设备证书，拒绝未授权终端。"}, {"id": "security", "section": "安全与可靠性", "title": "凭据加密", "text": "厂商凭据 AES 加密存储，最小化明文暴露。"}, {"id": "security", "section": "安全与可靠性", "title": "租户隔离", "text": "租户级数据隔离与配额限制，防止越权访问。"}, {"id": "security", "section": "安全与可靠性", "title": "流量防护", "text": "网关限流与熔断，隔离异常租户与故障依赖。"}, {"id": "design", "section": "设计思路", "title": "领域拆分", "text": "按网关、设备、接入、数据、规则、CDN 拆服务，设备量增长时独立扩容。"}, {"id": "design", "section": "设计思路", "title": "冷热分存", "text": "元数据进 MySQL，时序进 TDengine，Redis 只做影子缓存，避免互相拖慢。"}, {"id": "design", "section": "设计思路", "title": "统一物模型", "text": "各厂商差异收敛在适配器，客户端只面对属性、事件、服务。"}, {"id": "design", "section": "设计思路", "title": "事件解耦", "text": "Kafka 连接上报与规则计算，削峰并允许规则独立消费重放。"}, {"id": "pet", "section": "项目宠物", "title": "IoT Bot", "text": "蓝身机器人，头顶信号天线、胸前状态灯，呼应设备接入与实时在线的物联世界。"}, {"id": "pet", "section": "项目宠物", "title": "宠物表情", "text": "笑 欢乐 哭 沮丧 惊恐 愤怒 撒娇 卖萌 讨好 敲打 捂脸 吐舌头"}, {"id": "install", "section": "安装部署", "title": "环境要求", "text": "Docker 24+ docker compose Rust 1.80+ 8080-8085 端口空闲 3306/6379/1883/9092/6041 端口空闲"}, {"id": "install", "section": "安装部署", "title": "获取代码", "text": "克隆仓库并进入项目目录。 git clone https://github.com/erikwang2013/iot-platform.git && cd iot-platform"}, {"id": "install", "section": "安装部署", "title": "一键安装", "text": "启动基础设施、构建 6 个业务服务并生成 .env。 ./scripts/install.sh"}, {"id": "install", "section": "安装部署", "title": "检查基础设施", "text": "确认 MySQL、Redis、EMQX、Kafka、MinIO 与 TDengine 已就绪。 docker compose ps"}, {"id": "install", "section": "安装部署", "title": "启动业务服务", "text": "按脚本末尾输出的命令逐个启动 6 个业务服务。"}, {"id": "install", "section": "安装部署", "title": "登录管理端", "text": "使用 README 中的默认管理员账号登录管理端。"}, {"id": "usage", "section": "使用教程", "title": "登录管理端", "text": "使用默认管理员账号登录，进入租户 tenant-1。"}, {"id": "usage", "section": "使用教程", "title": "添加设备", "text": "选择厂商 OAuth 接入或 MQTT 直连并填写设备信息。"}, {"id": "usage", "section": "使用教程", "title": "定义物模型", "text": "为设备品类添加属性、事件与服务。"}, {"id": "usage", "section": "使用教程", "title": "配置规则", "text": "设置阈值规则与场景自动化并启用推送。"}, {"id": "usage", "section": "使用教程", "title": "查看数据", "text": "在历史数据页查看曲线并导出 CSV / Excel。"}, {"id": "usage", "section": "使用教程", "title": "管理 CDN", "text": "配置 CDN 厂商，执行刷新、预热与签名 URL。"}, {"id": "donate", "section": "打赏支持", "title": "微信赞赏 / 支付宝赞赏", "text": "微信 支付宝 打赏 赞助 支持 erik"}, {"id": "timeline", "section": "版本日志", "title": "v1.16.1", "text": "授权改为仅限个人使用；更新 README 与多语言文档。"}, {"id": "timeline", "section": "版本日志", "title": "v1.16.0", "text": "版本发布"}, {"id": "timeline", "section": "版本日志", "title": "v1.15.0", "text": "版本发布"}, {"id": "timeline", "section": "版本日志", "title": "v1.14.0", "text": "版本发布"}, {"id": "timeline", "section": "版本日志", "title": "v1.13.0", "text": "版本发布"}, {"id": "timeline", "section": "版本日志", "title": "v1.12.0", "text": "版本发布"}, {"id": "timeline", "section": "版本日志", "title": "v1.11.0", "text": "版本发布"}, {"id": "timeline", "section": "版本日志", "title": "v1.10.0", "text": "版本发布"}, {"id": "timeline", "section": "版本日志", "title": "v1.9.0", "text": "版本发布"}, {"id": "timeline", "section": "版本日志", "title": "v1.8.0", "text": "版本发布"}, {"id": "timeline", "section": "版本日志", "title": "v1.7.0", "text": "版本发布"}, {"id": "timeline", "section": "版本日志", "title": "v1.6.0", "text": "版本发布"}, {"id": "timeline", "section": "版本日志", "title": "v1.5.0", "text": "IoT 平台 v1.5.0"}, {"id": "timeline", "section": "版本日志", "title": "v1.4.0", "text": "IoT 平台 v1.4.0"}, {"id": "timeline", "section": "版本日志", "title": "v1.3.0", "text": "IoT 平台 v1.3.0"}, {"id": "timeline", "section": "版本日志", "title": "v1.2.0", "text": "IoT 平台 v1.2.0"}, {"id": "timeline", "section": "版本日志", "title": "v1.1.0", "text": "IoT 平台 v1.1.0 — P1 接入进行中：iot-access 服务 + OAuth 授权码 + 凭据加密（Task 1-4 完成）"}, {"id": "timeline", "section": "版本日志", "title": "v1.0.0", "text": "IoT 物联网管理平台 v1.0.0 — 项目首个版本（13 语言 i18n + 吉祥物 + P0-P1 骨架）"}]</script>
 <div class="lightbox" id="lightbox" role="dialog" aria-modal="true" aria-label="图片预览" hidden>
   <div class="lightbox-stage" id="lightboxStage"><img id="lightboxImg" alt=""></div>
   <div class="lightbox-tools">
@@ -263,6 +287,6 @@
   <button class="lightbox-close" id="lightboxClose" type="button" aria-label="关闭预览">×</button>
 </div>
 <button class="to-top" id="toTop" aria-label="返回顶部" type="button"><img src="assets/pet/mascot.svg" alt=""></button>
-<script type="module" src="assets/app.js?v=5b0c637b"></script>
+<script type="module" src="assets/app.js?v=6aec3fcf"></script>
 </body>
 </html>

diff --git a/site/assets/style.css b/site/assets/style.css
@@ -110,6 +110,25 @@ body::after{
 .stat b{display:block;font-family:var(--font-display);font-size:clamp(1.5rem,3vw,2.6rem);line-height:1.08;letter-spacing:-.02em;font-weight:700;overflow-wrap:anywhere}
 .stat span{display:block;margin-top:4px;font-size:11px;letter-spacing:.14em;color:var(--muted);text-transform:uppercase}
 .stat-text b{font-size:clamp(1.05rem,1.8vw,1.55rem);line-height:1.2;word-break:keep-all;overflow-wrap:normal}
+/* ============ editions ============ */
+.editions-grid{display:grid;grid-template-columns:repeat(2,minmax(0,1fr));gap:14px}
+.edition-panel{border:1px solid var(--line);border-radius:18px;background:var(--surface);padding:clamp(18px,2.4vw,26px)}
+.edition-open{border-color:color-mix(in srgb,var(--primary) 25%,var(--line))}
+.edition-head{display:flex;align-items:baseline;justify-content:space-between;gap:12px;padding-bottom:12px;border-bottom:1px solid var(--line)}
+.edition-head span{font-size:10px;letter-spacing:.2em;color:var(--muted)}
+.edition-head h3{font-family:var(--font-display);font-size:clamp(1.25rem,2.2vw,1.6rem);margin:0;letter-spacing:-.01em}
+.edition-list{list-style:none;margin:12px 0 0;padding:0;display:flex;flex-wrap:wrap;gap:7px}
+.edition-list li{font-size:11.5px;color:var(--muted);border:1px solid var(--line);border-radius:999px;padding:5px 10px;background:color-mix(in srgb,var(--primary) 5%,var(--surface))}
+.edition-table-wrap{margin-top:16px;border:1px solid var(--line);border-radius:16px;overflow-x:auto}
+.edition-table{width:100%;min-width:760px;border-collapse:collapse;font-size:12px}
+.edition-table th,.edition-table td{padding:11px 14px;border-bottom:1px solid var(--line);text-align:left;vertical-align:top;line-height:1.55}
+.edition-table th{font-size:10px;letter-spacing:.12em;text-transform:uppercase;color:var(--muted);background:color-mix(in srgb,var(--bg) 60%,transparent)}
+.edition-table td:first-child{width:110px;color:var(--text);font-weight:600}
+.edition-table td:nth-child(2){color:var(--muted)}
+.edition-table td:nth-child(3){color:var(--text);opacity:.85}
+.edition-table tr:last-child td{border-bottom:0}
+.edition-repo{display:inline-flex;align-items:center;gap:8px;margin-top:16px;padding:10px 16px;border:1px solid color-mix(in srgb,var(--primary) 45%,var(--line));border-radius:999px;color:var(--primary-ink);font-size:12px;text-decoration:none}
+.edition-repo:hover{background:color-mix(in srgb,var(--primary) 8%,transparent)}
 /* ============ features ============ */
 .features{display:grid;grid-template-columns:repeat(12,1fr);gap:14px}
 .feature{
@@ -329,6 +348,7 @@ body.is-lightbox-open{overflow:hidden}
   .section-head{display:block}
   .section-head p{margin-top:10px}
   .stats{grid-template-columns:repeat(3,1fr)}
+  .editions-grid{grid-template-columns:1fr}
   .sides-grid{grid-template-columns:1fr}
   .roadmap-grid{grid-template-columns:repeat(2,1fr)}
   .arch-grid{grid-template-columns:1fr}
